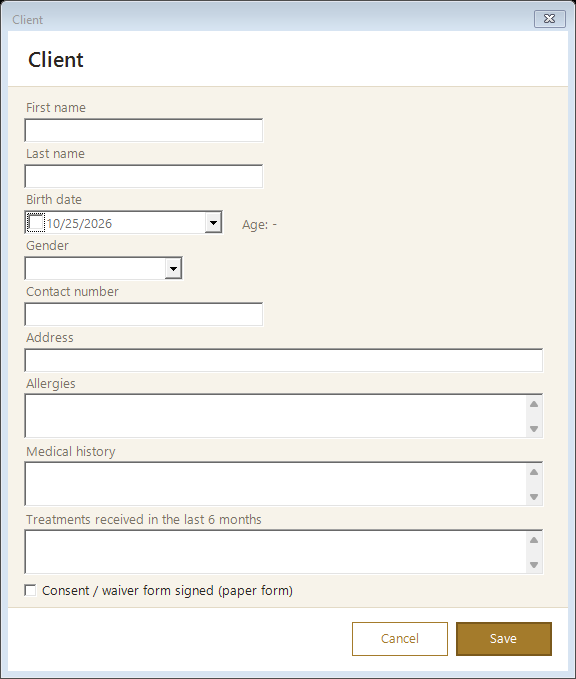
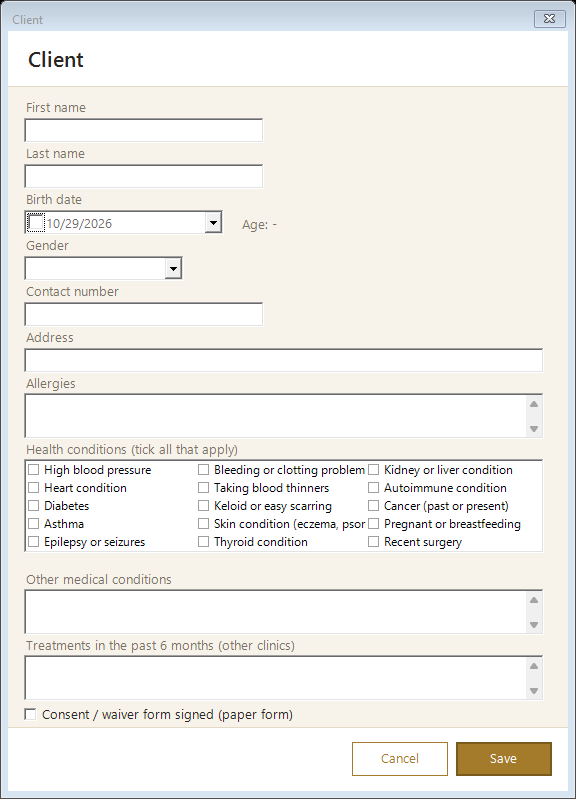
Prompt C1-2 Done

diff --git a/Forms/ClientEditForm.Designer.cs b/Forms/ClientEditForm.Designer.cs
@@ -40,6 +40,8 @@ namespace LittleEreseSystemV3.Forms
             this.lblMedicalHistory = new System.Windows.Forms.Label();
             this.txtAllergies = new System.Windows.Forms.TextBox();
             this.lblAllergies = new System.Windows.Forms.Label();
+            this.clbHealth = new System.Windows.Forms.CheckedListBox();
+            this.lblHealth = new System.Windows.Forms.Label();
             this.txtAddress = new System.Windows.Forms.TextBox();
             this.lblAddress = new System.Windows.Forms.Label();
             this.txtContact = new System.Windows.Forms.TextBox();
@@ -104,6 +106,8 @@ namespace LittleEreseSystemV3.Forms
             this.pnlContent.Controls.Add(this.lblTreatmentHistory);
             this.pnlContent.Controls.Add(this.txtMedicalHistory);
             this.pnlContent.Controls.Add(this.lblMedicalHistory);
+            this.pnlContent.Controls.Add(this.clbHealth);
+            this.pnlContent.Controls.Add(this.lblHealth);
             this.pnlContent.Controls.Add(this.txtAllergies);
             this.pnlContent.Controls.Add(this.lblAllergies);
             this.pnlContent.Controls.Add(this.txtAddress);
@@ -122,60 +126,83 @@ namespace LittleEreseSystemV3.Forms
             this.pnlContent.Dock = System.Windows.Forms.DockStyle.Fill;
             this.pnlContent.Location = new System.Drawing.Point(0, 56);
             this.pnlContent.Name = "pnlContent";
-            this.pnlContent.Size = new System.Drawing.Size(560, 520);
+            this.pnlContent.Size = new System.Drawing.Size(560, 640);
             this.pnlContent.TabIndex = 1;
             // 
             // chkConsentSigned
             // 
             this.chkConsentSigned.Font = new System.Drawing.Font("Segoe UI", 10F, System.Drawing.FontStyle.Regular, System.Drawing.GraphicsUnit.Point, ((byte)(0)));
             this.chkConsentSigned.ForeColor = System.Drawing.Color.FromArgb(((int)(((byte)(43)))), ((int)(((byte)(38)))), ((int)(((byte)(34)))));
-            this.chkConsentSigned.Location = new System.Drawing.Point(16, 492);
+            this.chkConsentSigned.Location = new System.Drawing.Point(16, 616);
             this.chkConsentSigned.Name = "chkConsentSigned";
             this.chkConsentSigned.Size = new System.Drawing.Size(520, 24);
-            this.chkConsentSigned.TabIndex = 19;
+            this.chkConsentSigned.TabIndex = 21;
             this.chkConsentSigned.Text = "Consent / waiver form signed (paper form)";
             this.chkConsentSigned.UseVisualStyleBackColor = true;
+            // 
+            // lblHealth
+            // 
+            this.lblHealth.Font = new System.Drawing.Font("Segoe UI", 10F, System.Drawing.FontStyle.Regular, System.Drawing.GraphicsUnit.Point, ((byte)(0)));
+            this.lblHealth.ForeColor = System.Drawing.Color.FromArgb(((int)(((byte)(122)))), ((int)(((byte)(114)))), ((int)(((byte)(102)))));
+            this.lblHealth.Location = new System.Drawing.Point(16, 354);
+            this.lblHealth.Name = "lblHealth";
+            this.lblHealth.Size = new System.Drawing.Size(520, 18);
+            this.lblHealth.TabIndex = 15;
+            this.lblHealth.Text = "Health conditions (tick all that apply)";
+            this.lblHealth.TextAlign = System.Drawing.ContentAlignment.MiddleLeft;
+            // 
+            // clbHealth
+            // 
+            this.clbHealth.CheckOnClick = true;
+            this.clbHealth.ColumnWidth = 170;
+            this.clbHealth.Font = new System.Drawing.Font("Segoe UI", 9F, System.Drawing.FontStyle.Regular, System.Drawing.GraphicsUnit.Point, ((byte)(0)));
+            this.clbHealth.FormattingEnabled = true;
+            this.clbHealth.Location = new System.Drawing.Point(16, 372);
+            this.clbHealth.MultiColumn = true;
+            this.clbHealth.Name = "clbHealth";
+            this.clbHealth.Size = new System.Drawing.Size(520, 110);
+            this.clbHealth.TabIndex = 16;
             // 
             // txtTreatmentHistory
             // 
             this.txtTreatmentHistory.Font = new System.Drawing.Font("Segoe UI", 10F, System.Drawing.FontStyle.Regular, System.Drawing.GraphicsUnit.Point, ((byte)(0)));
-            this.txtTreatmentHistory.Location = new System.Drawing.Point(16, 442);
+            this.txtTreatmentHistory.Location = new System.Drawing.Point(16, 568);
             this.txtTreatmentHistory.Multiline = true;
             this.txtTreatmentHistory.Name = "txtTreatmentHistory";
             this.txtTreatmentHistory.ScrollBars = System.Windows.Forms.ScrollBars.Vertical;
             this.txtTreatmentHistory.Size = new System.Drawing.Size(520, 46);
-            this.txtTreatmentHistory.TabIndex = 18;
+            this.txtTreatmentHistory.TabIndex = 20;
             // 
             // lblTreatmentHistory
             // 
             this.lblTreatmentHistory.Font = new System.Drawing.Font("Segoe UI", 10F, System.Drawing.FontStyle.Regular, System.Drawing.GraphicsUnit.Point, ((byte)(0)));
             this.lblTreatmentHistory.ForeColor = System.Drawing.Color.FromArgb(((int)(((byte)(122)))), ((int)(((byte)(114)))), ((int)(((byte)(102)))));
-            this.lblTreatmentHistory.Location = new System.Drawing.Point(16, 424);
+            this.lblTreatmentHistory.Location = new System.Drawing.Point(16, 550);
             this.lblTreatmentHistory.Name = "lblTreatmentHistory";
             this.lblTreatmentHistory.Size = new System.Drawing.Size(520, 18);
-            this.lblTreatmentHistory.TabIndex = 17;
-            this.lblTreatmentHistory.Text = "Treatments received in the last 6 months";
+            this.lblTreatmentHistory.TabIndex = 19;
+            this.lblTreatmentHistory.Text = "Treatments in the past 6 months (other clinics)";
             this.lblTreatmentHistory.TextAlign = System.Drawing.ContentAlignment.MiddleLeft;
             // 
             // txtMedicalHistory
             // 
             this.txtMedicalHistory.Font = new System.Drawing.Font("Segoe UI", 10F, System.Drawing.FontStyle.Regular, System.Drawing.GraphicsUnit.Point, ((byte)(0)));
-            this.txtMedicalHistory.Location = new System.Drawing.Point(16, 374);
+            this.txtMedicalHistory.Location = new System.Drawing.Point(16, 502);
             this.txtMedicalHistory.Multiline = true;
             this.txtMedicalHistory.Name = "txtMedicalHistory";
             this.txtMedicalHistory.ScrollBars = System.Windows.Forms.ScrollBars.Vertical;
             this.txtMedicalHistory.Size = new System.Drawing.Size(520, 46);
-            this.txtMedicalHistory.TabIndex = 16;
+            this.txtMedicalHistory.TabIndex = 18;
             // 
             // lblMedicalHistory
             // 
             this.lblMedicalHistory.Font = new System.Drawing.Font("Segoe UI", 10F, System.Drawing.FontStyle.Regular, System.Drawing.GraphicsUnit.Point, ((byte)(0)));
             this.lblMedicalHistory.ForeColor = System.Drawing.Color.FromArgb(((int)(((byte)(122)))), ((int)(((byte)(114)))), ((int)(((byte)(102)))));
-            this.lblMedicalHistory.Location = new System.Drawing.Point(16, 356);
+            this.lblMedicalHistory.Location = new System.Drawing.Point(16, 484);
             this.lblMedicalHistory.Name = "lblMedicalHistory";
             this.lblMedicalHistory.Size = new System.Drawing.Size(520, 18);
-            this.lblMedicalHistory.TabIndex = 15;
-            this.lblMedicalHistory.Text = "Medical history";
+            this.lblMedicalHistory.TabIndex = 17;
+            this.lblMedicalHistory.Text = "Other medical conditions";
             this.lblMedicalHistory.TextAlign = System.Drawing.ContentAlignment.MiddleLeft;
             // 
             // txtAllergies
@@ -340,7 +367,7 @@ namespace LittleEreseSystemV3.Forms
             this.pnlFooter.Controls.Add(this.btnSave);
             this.pnlFooter.Controls.Add(this.pnlFooterLine);
             this.pnlFooter.Dock = System.Windows.Forms.DockStyle.Bottom;
-            this.pnlFooter.Location = new System.Drawing.Point(0, 576);
+            this.pnlFooter.Location = new System.Drawing.Point(0, 696);
             this.pnlFooter.Name = "pnlFooter";
             this.pnlFooter.Size = new System.Drawing.Size(560, 64);
             this.pnlFooter.TabIndex = 2;
@@ -404,7 +431,7 @@ namespace LittleEreseSystemV3.Forms
             this.AutoScaleMode = System.Windows.Forms.AutoScaleMode.Font;
             this.BackColor = System.Drawing.Color.FromArgb(((int)(((byte)(247)))), ((int)(((byte)(243)))), ((int)(((byte)(234)))));
             this.CancelButton = this.btnCancel;
-            this.ClientSize = new System.Drawing.Size(560, 640);
+            this.ClientSize = new System.Drawing.Size(560, 760);
             this.Controls.Add(this.pnlContent);
             this.Controls.Add(this.pnlFooter);
             this.Controls.Add(this.pnlHeader);
@@ -445,6 +472,8 @@ namespace LittleEreseSystemV3.Forms
         private System.Windows.Forms.TextBox txtAddress;
         private System.Windows.Forms.Label lblAllergies;
         private System.Windows.Forms.TextBox txtAllergies;
+        private System.Windows.Forms.Label lblHealth;
+        private System.Windows.Forms.CheckedListBox clbHealth;
         private System.Windows.Forms.Label lblMedicalHistory;
         private System.Windows.Forms.TextBox txtMedicalHistory;
         private System.Windows.Forms.Label lblTreatmentHistory;

diff --git a/Forms/ClientEditForm.cs b/Forms/ClientEditForm.cs
@@ -1,4 +1,5 @@
 using System;
+using System.Collections.Generic;
 using System.Data;
 using System.Windows.Forms;
 using LittleEreseSystemV3.Data;
@@ -38,6 +39,11 @@ namespace LittleEreseSystemV3.Forms
             // that is not checked would otherwise leave the box looking filled in.
             dtpBirthDate.Value = DateTime.Today;
             dtpBirthDate.Checked = false;
+
+            // The tick list comes from the ONE list in ClientRepository, so a new condition
+            // is added there and appears here without touching this form.
+            clbHealth.Items.Clear();
+            clbHealth.Items.AddRange(ClientRepository.HealthConditionOptions);
 
             if (EditId > 0) LoadClient(EditId);
 
@@ -95,9 +101,34 @@ namespace LittleEreseSystemV3.Forms
             txtContact.Text = Db.Get<string>(row["contact_number"]);
             txtAddress.Text = Db.Get<string>(row["address"]);
             txtAllergies.Text = Db.Get<string>(row["allergies"]);
+            TickHealthConditions(Db.Get<string>(row["health_conditions"]));
             txtMedicalHistory.Text = Db.Get<string>(row["medical_history"]);
             txtTreatmentHistory.Text = Db.Get<string>(row["treatment_history"]);
             chkConsentSigned.Checked = Db.Get<bool>(row["consent_status"]);
+        }
+
+        /// <summary>Ticks the boxes this client's stored health_conditions already holds.</summary>
+        private void TickHealthConditions(string stored)
+        {
+            foreach (string condition in ClientRepository.SplitHealthConditions(stored))
+            {
+                int index = clbHealth.Items.IndexOf(condition);
+                // An old row may hold a wording the list no longer has; a missing tick is
+                // better than adding a value the list does not know about.
+                if (index >= 0) clbHealth.SetItemChecked(index, true);
+            }
+        }
+
+        /// <summary>The ticked items as the comma separated text the Clients column stores.</summary>
+        private string CheckedHealthConditions()
+        {
+            List<string> ticked = new List<string>();
+            foreach (object item in clbHealth.CheckedItems)
+            {
+                ticked.Add(item.ToString());
+            }
+
+            return ClientRepository.JoinHealthConditions(ticked);
         }
 
         /// <summary>
@@ -165,7 +196,7 @@ namespace LittleEreseSystemV3.Forms
                 {
                     ClientRepository.Update(EditId, firstName, lastName, birthDate, gender, contact,
                         txtAddress.Text, txtAllergies.Text, txtMedicalHistory.Text,
-                        string.Empty, txtTreatmentHistory.Text, chkConsentSigned.Checked);
+                        CheckedHealthConditions(), txtTreatmentHistory.Text, chkConsentSigned.Checked);
                     SavedClientId = EditId;
 
                     ActivityRepository.Log(Session.UserId, "Edit", "Clients",
@@ -175,7 +206,7 @@ namespace LittleEreseSystemV3.Forms
                 {
                     SavedClientId = ClientRepository.Add(firstName, lastName, birthDate, gender, contact,
                         txtAddress.Text, txtAllergies.Text, txtMedicalHistory.Text,
-                        string.Empty, txtTreatmentHistory.Text, chkConsentSigned.Checked);
+                        CheckedHealthConditions(), txtTreatmentHistory.Text, chkConsentSigned.Checked);
 
                     ActivityRepository.Log(Session.UserId, "Add", "Clients",
                         lastName + ", " + firstName);

diff --git a/PROGRESS.md b/PROGRESS.md
@@ -2,6 +2,29 @@
 
 Update this file at the end of every task.
 
+- Step 71 (this task): the new / edit client dialog now follows the paper intake form.
+  - Forms\ClientEditForm.Designer.cs: new label lblHealth ("Health conditions (tick all that
+    apply)") and CheckedListBox clbHealth (MultiColumn, ColumnWidth 170, CheckOnClick, 3 columns,
+    110 px tall, 9 pt font so no entry is cut off) placed between txtAllergies and the medical box.
+    lblMedicalHistory now reads "Other medical conditions" and lblTreatmentHistory "Treatments in
+    the past 6 months (other clinics)". Every control below the new list moved down 128 px and the
+    form grew to ClientSize 560x760 (pnlContent 640, pnlFooter at y=696); TabIndex runs 0..21 in
+    visual order (clbHealth 16, medical 17/18, treatment 19/20, consent 21). chkConsentSigned keeps
+    its text and the normal dark ForeColor (43,38,34).
+  - Forms\ClientEditForm.cs: clbHealth is filled from ClientRepository.HealthConditionOptions in
+    the Load event; TickHealthConditions ticks the items found by SplitHealthConditions of
+    row["health_conditions"] in edit mode; CheckedHealthConditions gives the ticked items to
+    ClientRepository.Add / Update (the string.Empty placeholder of step 70 is gone). The file
+    gained a using System.Collections.Generic.
+  - No business rule changed, so PROJECT_RULES.md was not edited. LittleEreseSystemV3.csproj was
+    NOT edited.
+  - Checks: clean rebuild 0 errors / 0 warnings; DesignerAudit 22 files exit 0; --preview
+    ClientEditForm looked at (first round moved the list up and shrank its font so
+    "Bleeding or clotting problem" / "Pregnant or breastfeeding" are no longer clipped); --smoketest
+    96 passed / 0 failed / 0 skipped; app started once, stayed open, closed, no error.log.
+  - The dialog is shared by Clients and the "new client" button of the booking screen, so both now
+    show the health checkboxes.
+
 - Step 70 (this task): the health checkboxes, the treatment-history meaning and the package rule.
   - Data\ClientRepository.cs: new public static readonly string[] HealthConditionOptions (the ONE
     list of the paper-form conditions), JoinHealthConditions / SplitHealthConditions, GetClinicHistory
